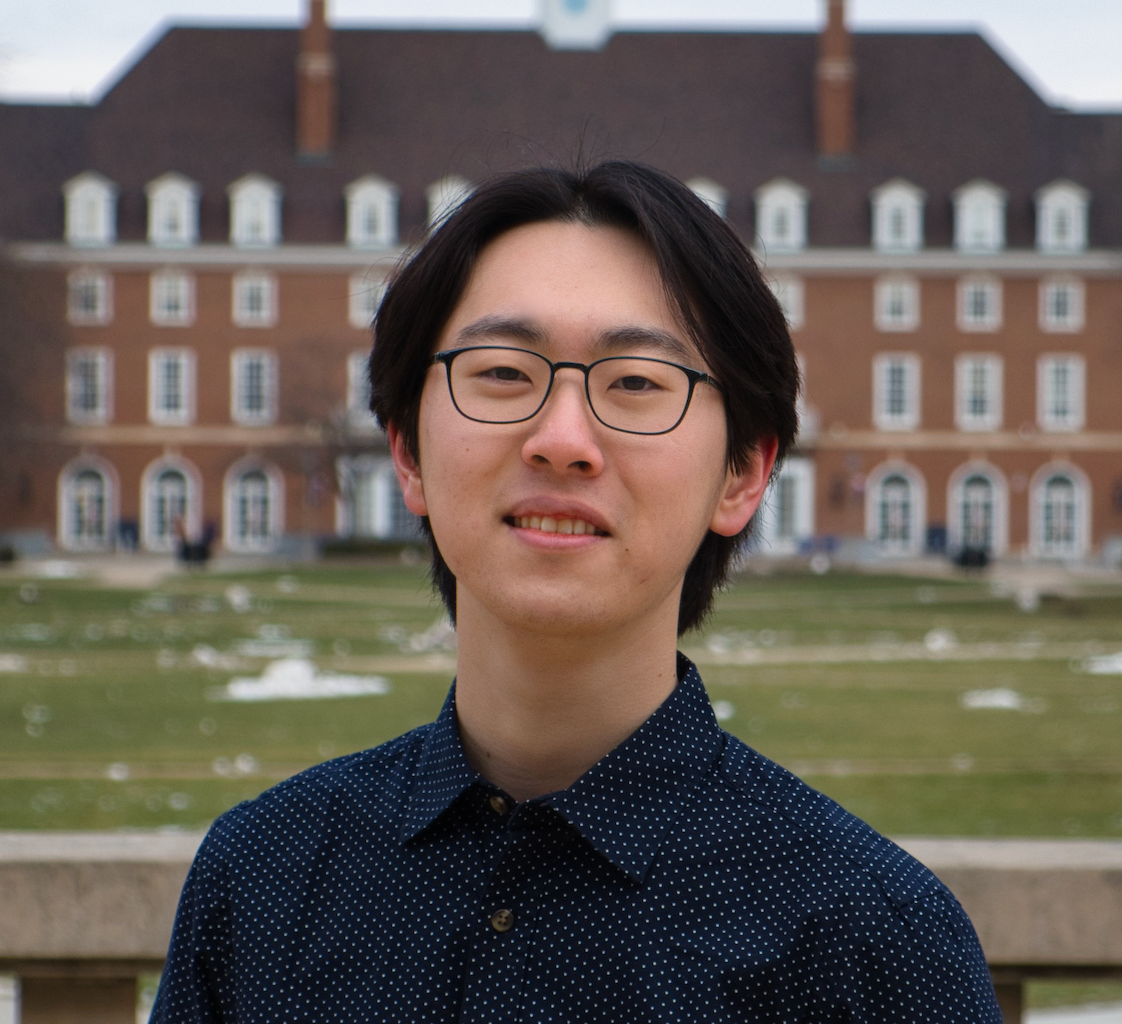
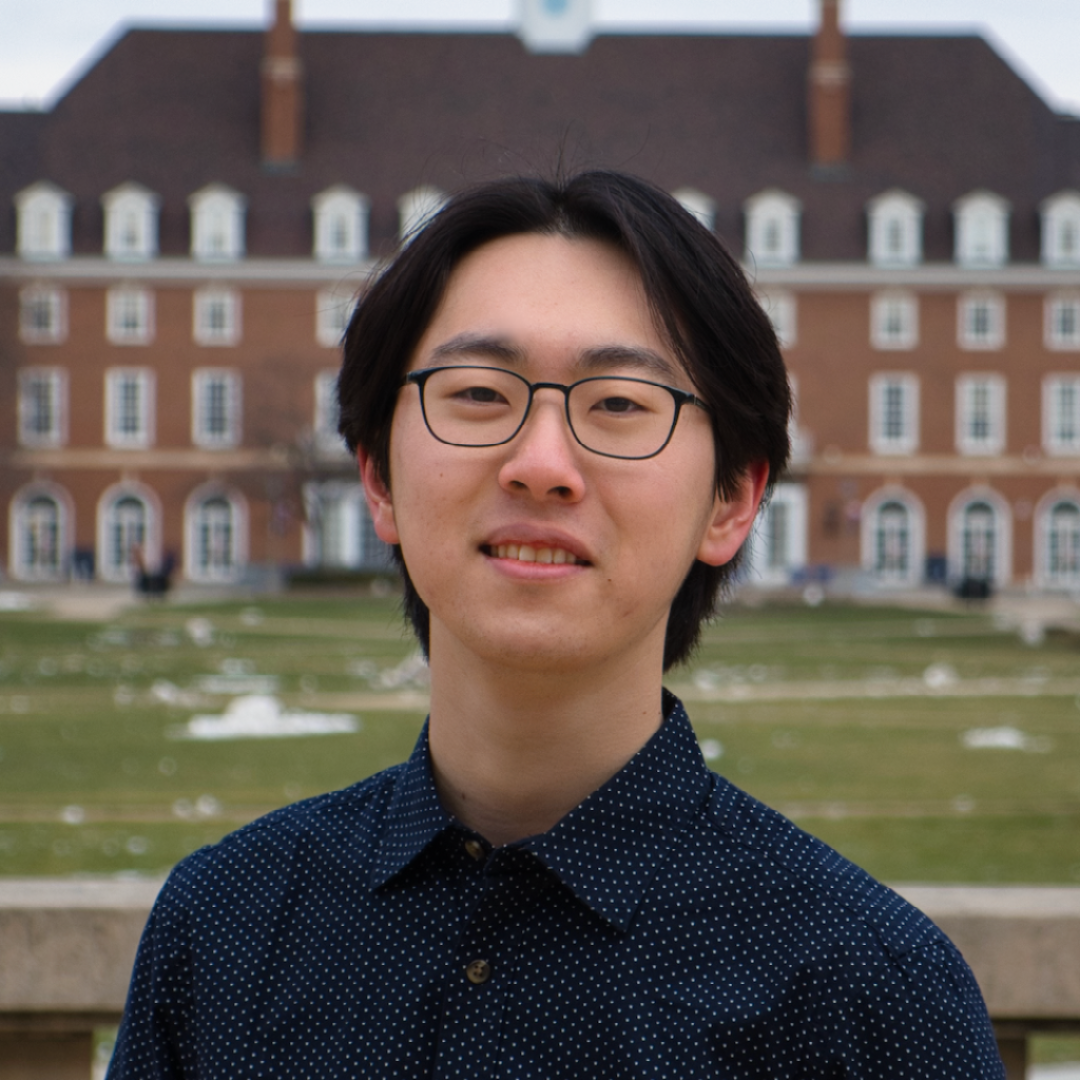
Make index responsive

diff --git a/pages/index.tsx b/pages/index.tsx
@@ -14,21 +14,17 @@ export default function Home() {
     <div className="bg justify-between">
       <Header />
 
-      <div className="grid grid-cols-1 grid-rows-2 gap-0 place-content-center justify-items-center h-screen">
-        {/* <div className="drop-shadow-2xl"> */}
-        {/* <Image
-          className="invisible xs:visible justify-center mt-10 px-5 clip-circle"
-          src={profilePic}
-          // width={565}
-          height={380}
-          alt="kyusite thumbnail"
-        /> */}
+      <div className="flex flex-col items-center">
+        {/* <div className="image-container"> */}
         <Image
-          className="visible xs:invisible  justify-content-center mt-10 px-5 clip-circle"
+          className=" justify-content-center mt-10 mx-5 clip-circle 
+                      w-[320px] h-[320px]
+                      md:w-[360px] md:h-[360px]
+                      xl:w-[400px] xl:h-[400px]"
           src={profilePic}
           // width={565}
-          height={360}
-          alt="kyusite thumbnail"
+          // height={360}
+          alt="kyusite profile picture"
         />
         {/* </div> */}
         <div
@@ -41,8 +37,6 @@ export default function Home() {
           above!
         </div>
       </div>
-
-      {/* <Footer /> */}
     </div>
   );
 }

diff --git a/styles/globals.css b/styles/globals.css
@@ -5,7 +5,7 @@
 
 @layer components {
   .bg {
-    @apply font-open-sans font-light bg-gradient-to-t bg-cover from-background to-white px-4 pt-2 md:px-10 md:pt-5;
+    @apply font-open-sans font-light bg-gradient-to-t from-background to-white px-4 pt-2 md:px-10 md:pt-5 h-screen;
   }
 
   .bg-alt {
